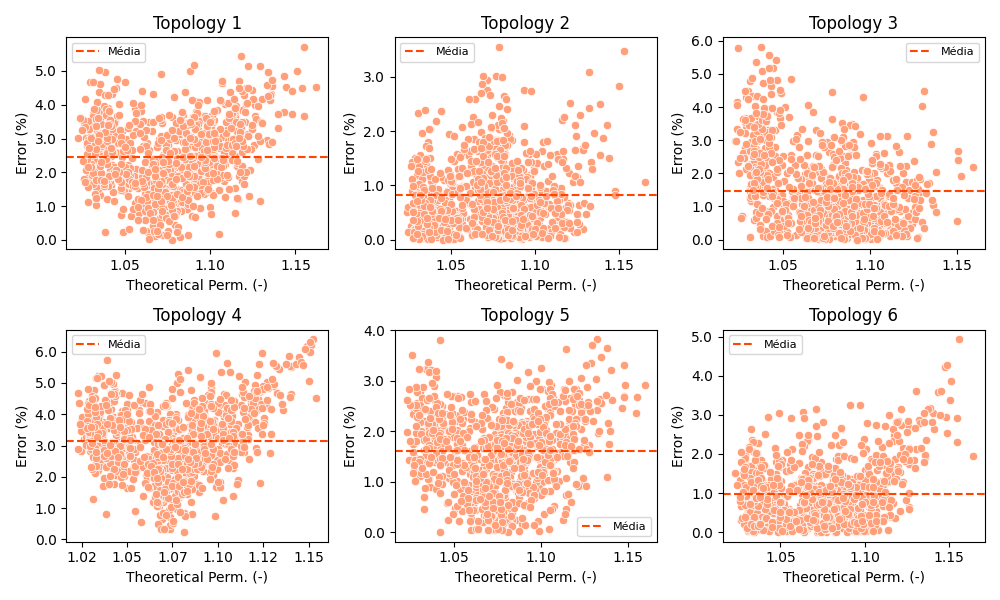
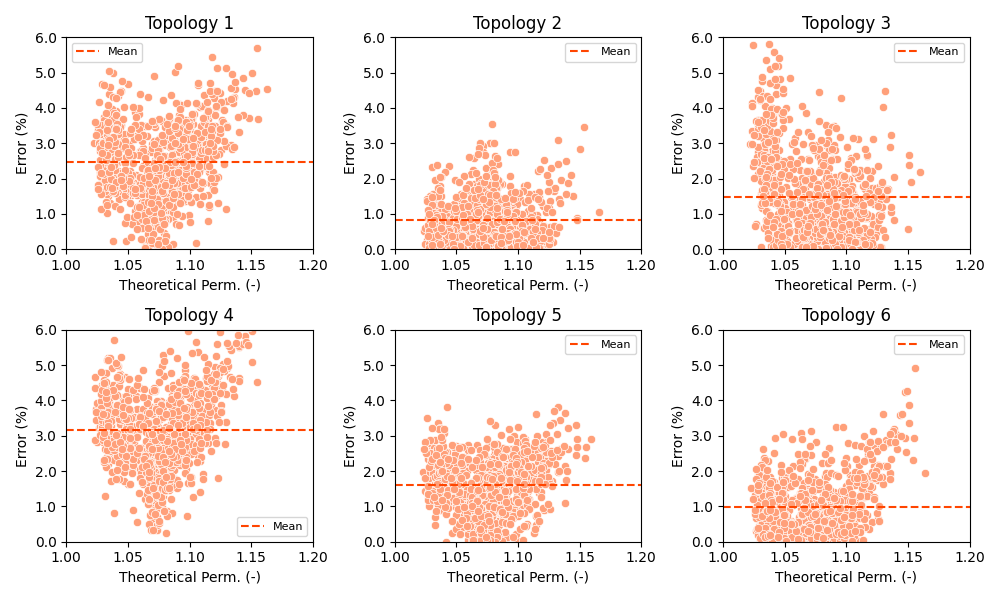
A bunch of change

diff --git a/PostProcessing2.py b/PostProcessing2.py
@@ -9,96 +9,26 @@ import os
 from Inputs import *
 
 # read History csv
-HistoryFilename = './vCNN/History/'+modelName+'_Hist.csv'
-if os.path.exists(HistoryFilename):
-        # convert csv to df
-        HistoryDataframe = pd.read_csv(HistoryFilename,sep=',')
+sensitivity = ['','a','b']
+colors = ['b','m','r']
+for i in range(0,len(sensitivity)):
+        HistoryFilename = './vCNN/History/CNNPerm_'+batchName+threshName+topologyName+sensitivity[i]+'_Hist.csv'
+        if os.path.exists(HistoryFilename):
+                # convert csv to df
+                HistoryDataframe = pd.read_csv(HistoryFilename,sep=',')
 
-# data visualization
-fig, ax = plt.subplots(nrows = 1, ncols = 2, sharex=False, sharey=False, figsize = (10,6))
-ax[0].set_title('Mean Square Error - Loss Function', fontsize = 10)
-ax[0].plot(HistoryDataframe['loss'])
-ax[0].set_xlabel(xlabel = 'Epochs', fontsize = 10)
-ax[1].set_title('Mean Error (%)', fontsize = 10)
-ax[1].plot(HistoryDataframe['mean_Error'])
-ax[1].set_xlabel(xlabel = 'Epochs', fontsize = 10)
+                # data visualization
+                fig, ax = plt.subplots(nrows = 1, ncols = 2, sharex=False, sharey=False, figsize = (10,6))
+                ax[0].set_title('Mean Square Error - Loss Function', fontsize = 10)
+                ax[0].plot(HistoryDataframe['loss'], label='Top_'+topologyName+sensitivity[i], color = colors[i])
+                ax[0].set_xlabel(xlabel = 'Epochs', fontsize = 10)
+                ax[0].legend(loc = "best", fontsize = 8)
+                ax[1].set_title('Mean Error (%)', fontsize = 10)
+                ax[1].plot(HistoryDataframe['mean_Error'], label='Top_'+topologyName+sensitivity[i], color = colors[i])
+                ax[1].set_xlabel(xlabel = 'Epochs', fontsize = 10)
+                ax[1].legend(loc = "best", fontsize = 8)
+        else:
+                break
+
 fig.tight_layout()
-fig.savefig('./vCNN/Topologies/Next/'+modelName+'.png')
-
-'''
-# Read from CSV of results
-originalFilename = './Data/AMs_data.csv'
-# resulfsFilename = './Results/Train_Am5_c123_Area0-20_Test_Same_TestGroupEval.csv'
-
-originalDataframe = pd.read_csv(originalFilename,sep=',')
-all_files = os.listdir("Images")
-all_files_noExt = [s[0:len(s)-4] for s in all_files]
-am5 = [s for s in all_files_noExt if "am5_" in s]
-am5_x = [s for s in am5 if "_x" in s]
-am5_y = [s for s in am5 if "_y" in s]
-am5_c1 = [s for s in am5 if "c1" in s]
-am5_c1x = [s for s in am5_c1 if "_x" in s]
-am5_c1y = [s for s in am5_c1 if "_y" in s]
-am5_c12 = [s for s in am5 if "c1" in s or "c2" in s]
-am5_c12x = [s for s in am5_c12 if "_x" in s]
-am5_c12y = [s for s in am5_c12 if "_y" in s]
-am5_c123 = [s for s in am5 if "c1" in s or "c2" in s or "c3" in s]
-am5_c123x = [s for s in am5_c123 if "_x" in s]
-am5_c123y = [s for s in am5_c123 if "_y" in s]
-am5_c34 = [s for s in am5 if "c3" in s or "c4" in s]
-am5_c34x = [s for s in am5_c34 if "_x" in s]
-am5_c34y = [s for s in am5_c34 if "_y" in s]
-am5_c1x = [s for s in am5_c1 if "_x" in s]
-am5_c12x = [s for s in am5_c12 if "_x" in s]
-am5_c12y = [s for s in am5_c12 if "_y" in s]
-am8 = [s for s in all_files if "am5_" in s]
-am8_c12 = [s for s in am8 if "c1" in s or "c2" in s]
-am8_c34 = [s for s in am8 if "c3" in s or "c4" in s]
-am8_c12x = [s for s in am8_c12 if "_x" in s]
-am8_c12y = [s for s in am8_c12 if "_y" in s]
-
-case = am5
-subset = am5_c1
-caseID = 'Am5'
-subsetID = 'Am5_c1'
-# caseId = 'Train_'+caseID+'_Test_Same_TestGroupEval'
-caseId = 'Train_ValSplit_15_'+caseID+'_Test_Same_TestGroupEval'
-
-# Fill Dataframe    
-trainedDataframe = pd.read_csv('./Results/'+caseId+'.csv', sep=';')
-#resultImages = resultsDataframe.Image_filename.values
-resultImages = list(originalDataframe[originalDataframe.Image_file.isin(case)]['Image_file'])
-
-# Read Training Data
-subsetDataframe = originalDataframe[originalDataframe.Image_file.isin(subset)]
-#trainingArea = subsetDataframe['%Area'][subsetDataframe.Image_file.isin(resultImages)]
-#trainingArea = list(subsetDataframe[subsetDataframe.Image_file.isin(subset)]['%Area'])
-testPerm = subsetDataframe['Keq/Kpm'][subsetDataframe.Image_file.isin(resultImages)]
-#trainingPerm = list(subsetDataframe[subsetDataframe.Image_file.isin(subset)]['Keq/Kpm'])
-trainedPerm = trainedDataframe['Estimated Perm Inc']
-meanAccuracy = 100*abs(testPerm - trainedPerm)/testPerm
-
-plt.figure()
-plt.scatter(trainedPerm, testPerm, color = 'indigo', marker = 'o')
-plt.plot(trainedPerm, trainedPerm, color = 'violet', linewidth = 2.0)
-plt.xlabel('Original Permeability (-)', fontsize=14)
-plt.ylabel('Estimated Permeability (-)', fontsize=14)
-plt.text(1.05, 2.05, 'Mean error: ' + '{0:.2f}'.format(meanAccuracy) + '%', fontsize = 10)
-plt.title(caseID+' w/ '+subsetID+' subset', fontsize=20)
-plt.savefig('./Results/Train_'+caseID+'_Test_'+subsetID+' subset.png')
-
-
-
-fig2, ax = plt.subplots(1, 2)#, gridspec_kw={"width_ratios":[1,1, 0.05]})
-h0 = ax[0].hist2d(trainingArea, trainingPerm, bins=(20, 20), cmap=plt.cm.jet)
-ax[0].set(title = 'Training Set',
-        xlabel = 'Keq/Kpm',
-        ylabel = 'Porousity %')
-plt.colorbar(h0[3],ax=ax[0],orientation='horizontal')
-h1 = ax[1].hist2d(testArea, testPerm, bins=(20, 20), cmap=plt.cm.jet)
-ax[1].set(title = 'Min Test Accuracy: {:.2f} %'.format(minAccuracy),
-        xlabel = 'Keq/Kpm')
-plt.colorbar(h1[3],ax=ax[1],orientation='horizontal')
-# fig.colorbar(h0[3], cax=ax[2], ax=ax)
-fig2.savefig('./Results/'+caseId + '_Histograms.png')
-'''
+fig.savefig('./vCNN/Topologies/Next/Am8_c34_Sensitivity.png')

diff --git a/PostProcessing1.py b/PostProcessing1.py
@@ -56,6 +56,8 @@ for i in range(0, rows):
                           TopologyDataframe['Keq/Kpm_teo'], color='indigo', linewidth=2.0)
             ax[i,j].set_ylabel(ylabel = 'Estimated Perm. (-)', fontsize = 10)
             ax[i,j].set_xlabel(xlabel = 'Theoretical Perm. (-)', fontsize = 10)
+            ax[i,j].set_xlim([1.00, 1.20])
+            ax[i,j].set_ylim([0.95, 1.20])
             ax[i,j].xaxis.set_major_formatter(ticker.FormatStrFormatter('%.2f'))
         else:
             break
@@ -83,6 +85,7 @@ for i in range(0, rows):
                             TestTopologyDataframe['Keq/Kpm_est'], 
                             color='lightgreen', marker='x', label = 'Test Data')
             ax[i, j].legend(loc = "best", fontsize = 8)
+            
 fig1.tight_layout()
 fig1.savefig('./vCNN/Topologies/'+caseID+'_Topologies.png')
         
@@ -101,15 +104,16 @@ for i in range(0, rows):
             # convert csv to df
             TopologyDataframe = pd.read_csv(TopologyFilename,sep=';')
             # data visualization
-            ax2[i,j].set_title(label = model_top, fontsize = 12)
+            ax2[i,j].set_title(label = model_top+' Distribution', fontsize = 12)
             ax2[i,j] = sns.histplot(100*(np.array(TopologyDataframe['Keq/Kpm_est'])-np.array(TopologyDataframe['Keq/Kpm_teo']))/np.array(TopologyDataframe['Keq/Kpm_teo']),
                                         color = 'm',
                                         stat = "count", common_norm=False, kde = True,
                                         ax = ax2[i, j])
             ax2[i,j].set_ylabel(ylabel = "Count", fontsize = 10)
             ax2[i,j].set_xlabel(xlabel = 'Error (%)', fontsize = 10)
+            ax2[i,j].set_xlim([-6.50, 6.50])
+            ax2[i,j].set_ylim([0.00, 115])
             ax2[i,j].xaxis.set_major_formatter(ticker.FormatStrFormatter('%.1f'))
-                  
         else:
             break
 fig2.tight_layout()
@@ -134,9 +138,11 @@ for i in range(0, rows):
             ax3[i,j] = sns.scatterplot(x = TopologyDataframe['Keq/Kpm_teo'], y = TopologyDataframe['Error (%)'], 
                                         color = 'lightsalmon',
                                         ax = ax3[i,j])
-            ax3[i, j].axhline(y = TopologyDataframe['Error (%)'].mean(), color = 'orangered', linestyle = '--', label = 'Média')
+            ax3[i, j].axhline(y = TopologyDataframe['Error (%)'].mean(), color = 'orangered', linestyle = '--', label = 'Mean')
             ax3[i, j].set_xlabel(xlabel = 'Theoretical Perm. (-)', fontsize = 10)
             ax3[i, j].set_ylabel(ylabel = 'Error (%)', fontsize = 10)
+            ax3[i,j].set_xlim([1.00, 1.20])
+            ax3[i,j].set_ylim([0.00, 6.00])
             ax3[i, j].xaxis.set_major_formatter(ticker.FormatStrFormatter('%.2f'))
             ax3[i, j].yaxis.set_major_formatter(ticker.FormatStrFormatter('%.1f'))
             ax3[i, j].legend(loc = "best", fontsize = 8)
